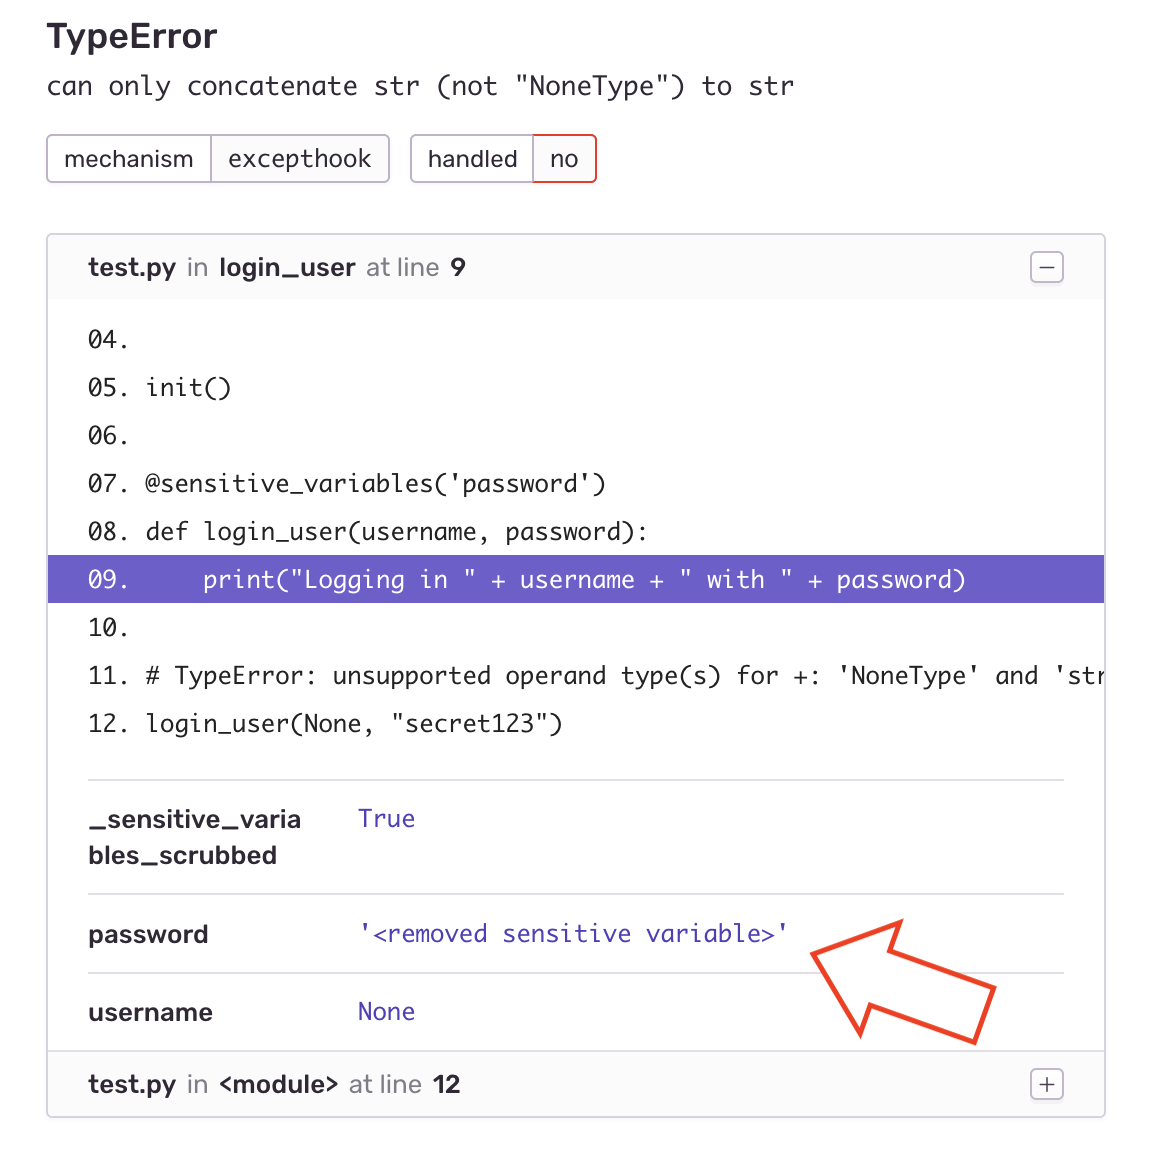
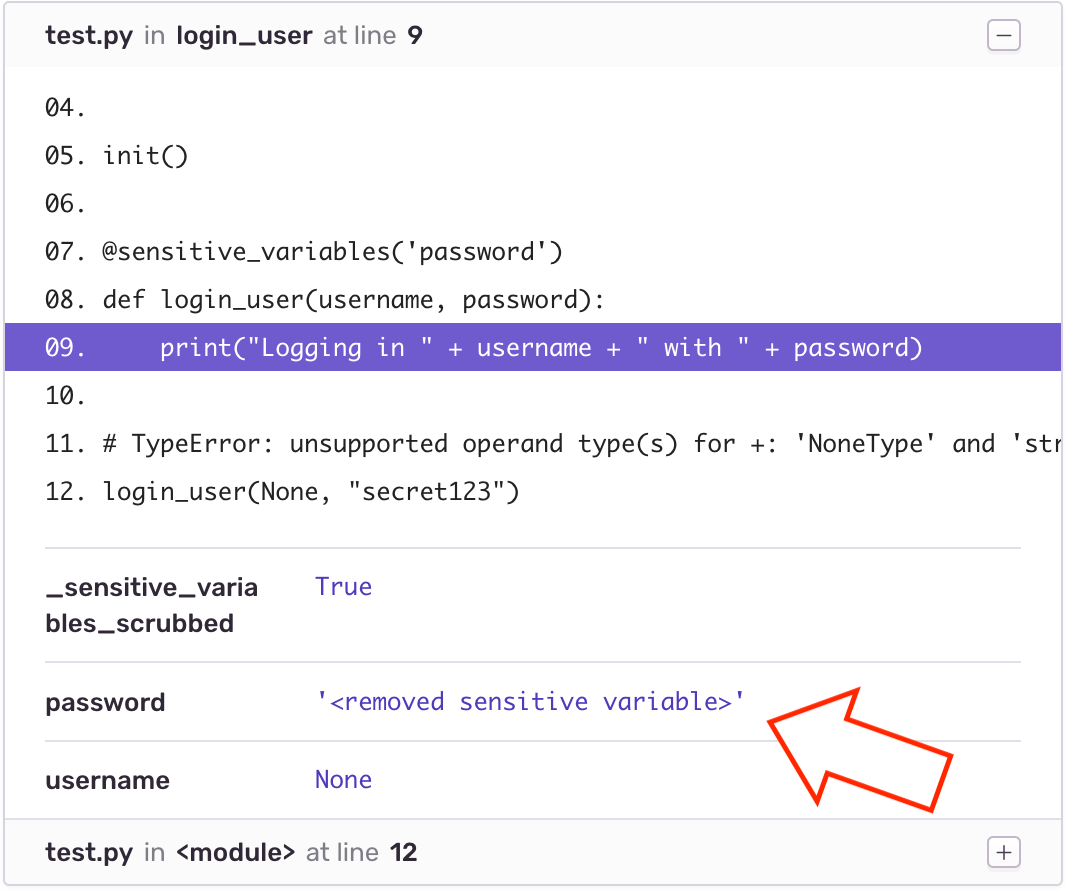
make img smaller

diff --git a/README.md b/README.md
@@ -28,7 +28,7 @@ login_user(None, "secret123")
 
 results in:
 
-<img src=demo.png width=576 />
+<img src=demo.png width=533 />
 
 ## How does it work?
 
